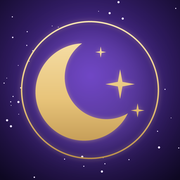
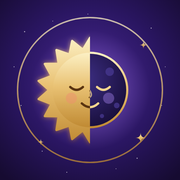
Icône « Jour et nuit » : un visage moitié soleil, moitié lune
Claude-Session: https://claude.ai/code/session_019pXkgFxZfNxAap7BMic4Hv

diff --git a/tools/icon_circe.py b/tools/icon_circe.py
@@ -3,7 +3,7 @@ Trois propositions en SVG, rendues en PNG par Chromium :
   D « Le baiser »        : croissant de profil face au soleil qui sourit (motif classique du tarot) ;
   E « Jour et nuit »     : un seul visage, moitié soleil doré, moitié lune sombre ;
   F « Le berceau »       : grand croissant de profil qui berce un petit soleil endormi.
-Usage : python3 tools/icon_circe.py <dossier sortie>  → D.png, D-mask.png, etc."""
+Usage : python3 tools/icon_circe.py <dossier sortie>  → D.png, D-mask.png, etc. Icône en place : E (Jour et nuit)."""
 import asyncio, math, sys
 from playwright.async_api import async_playwright
 
